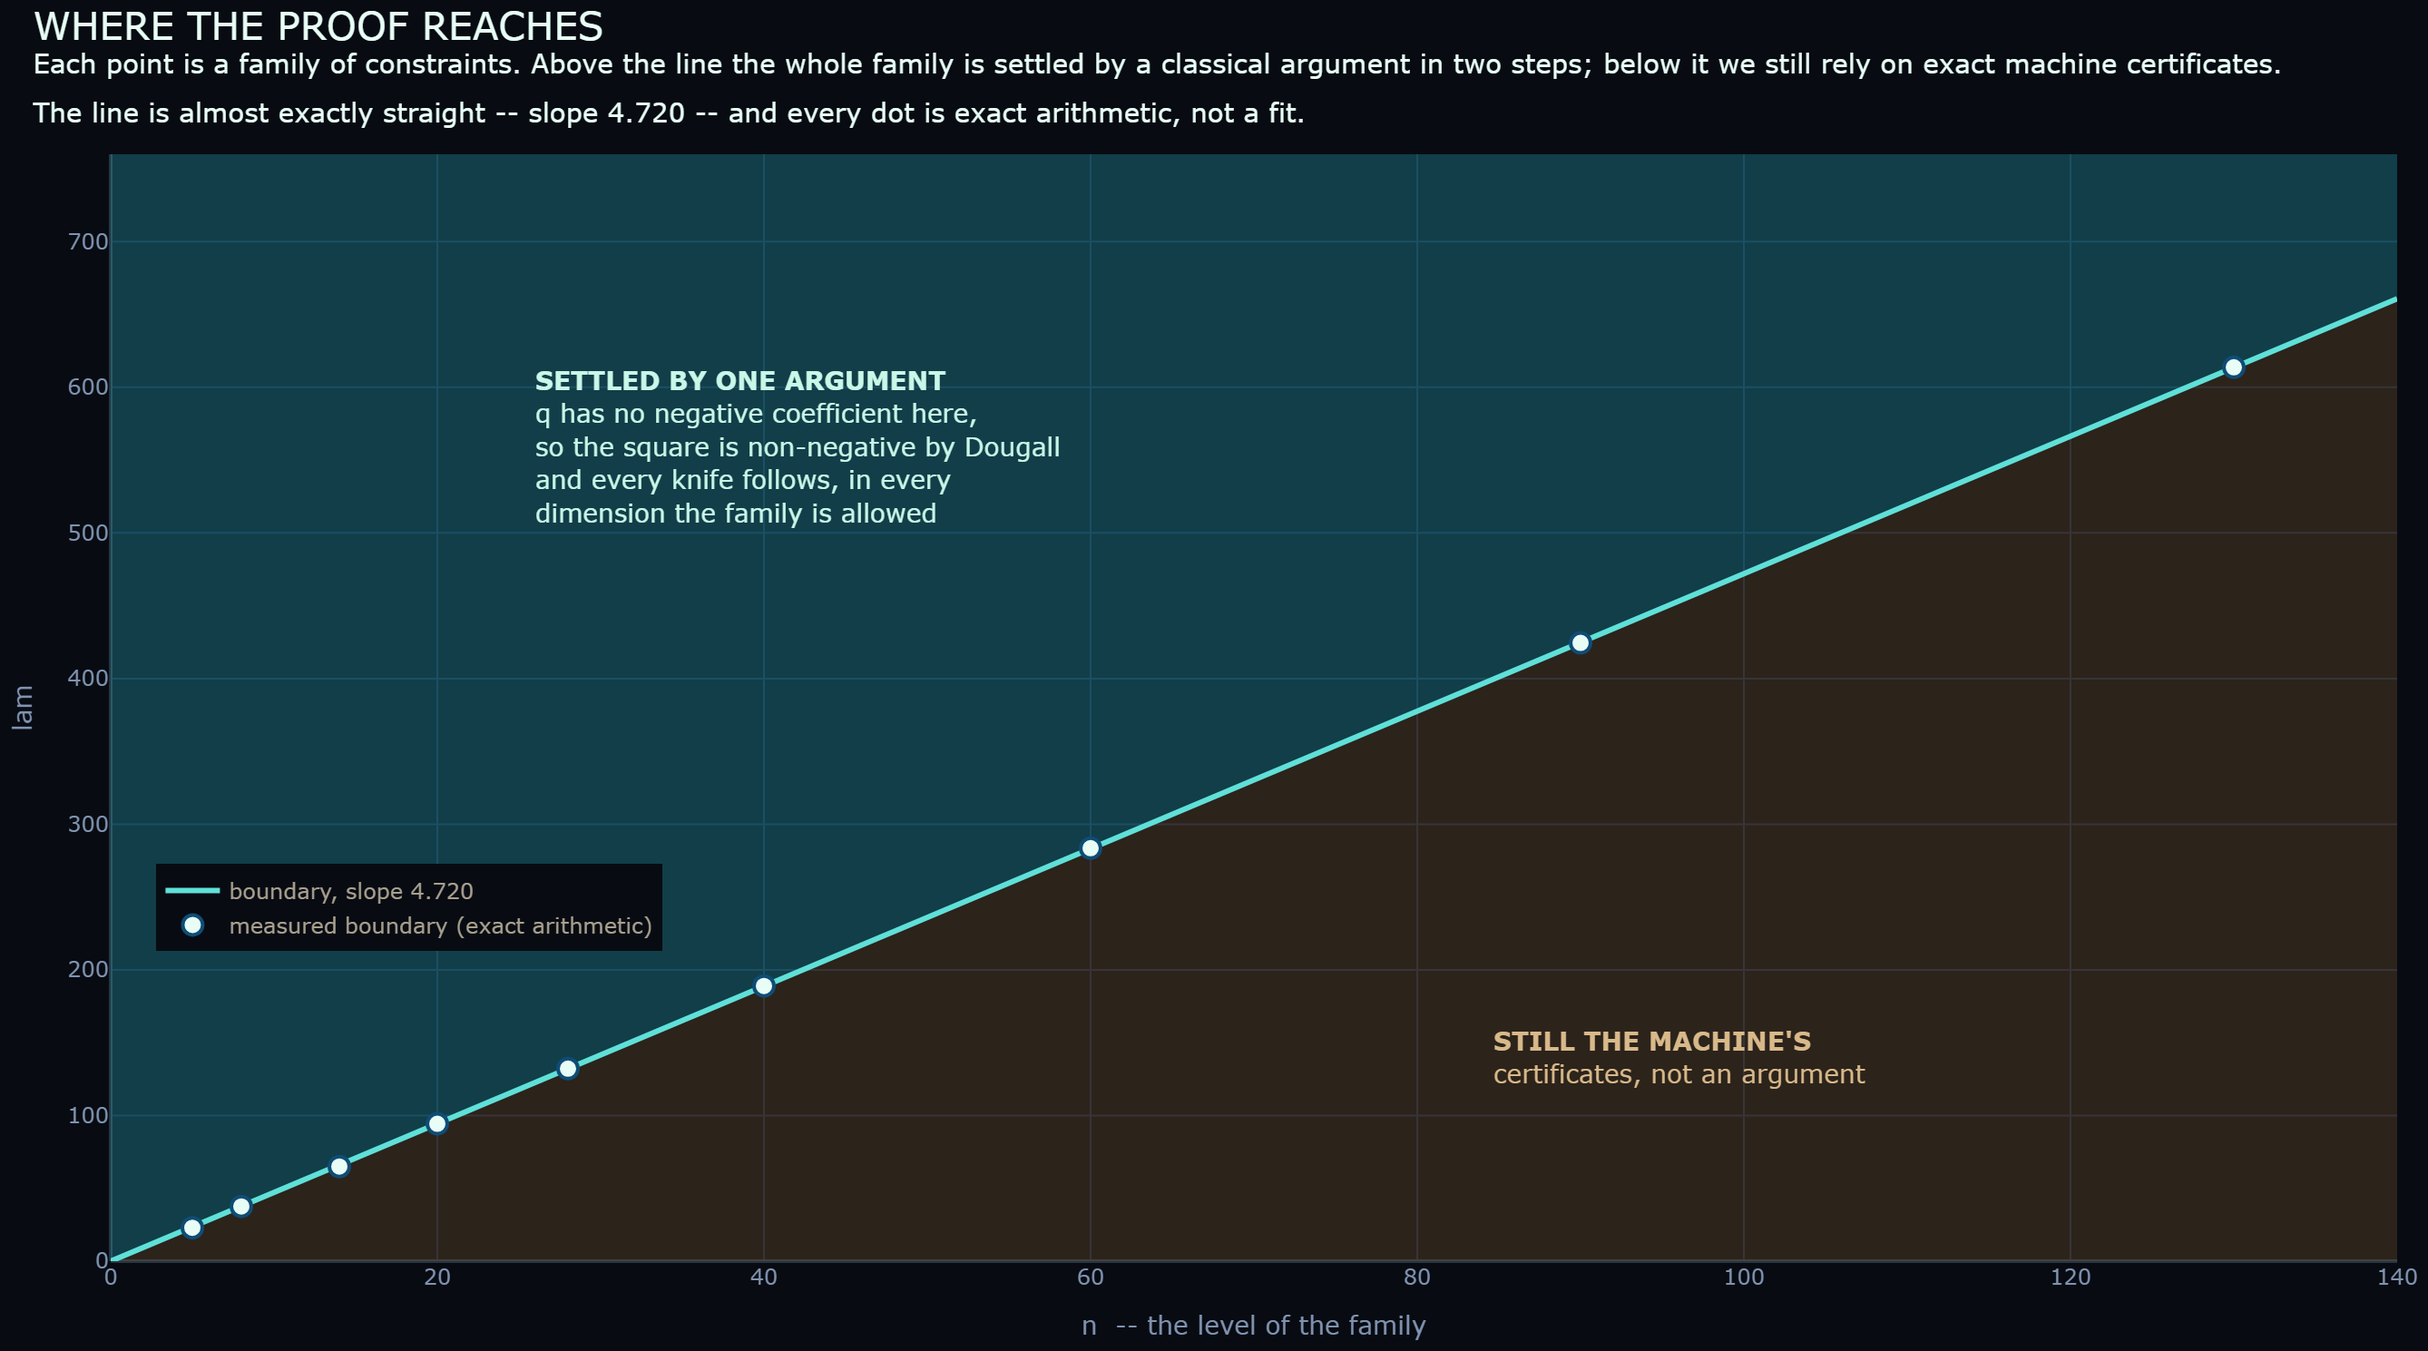
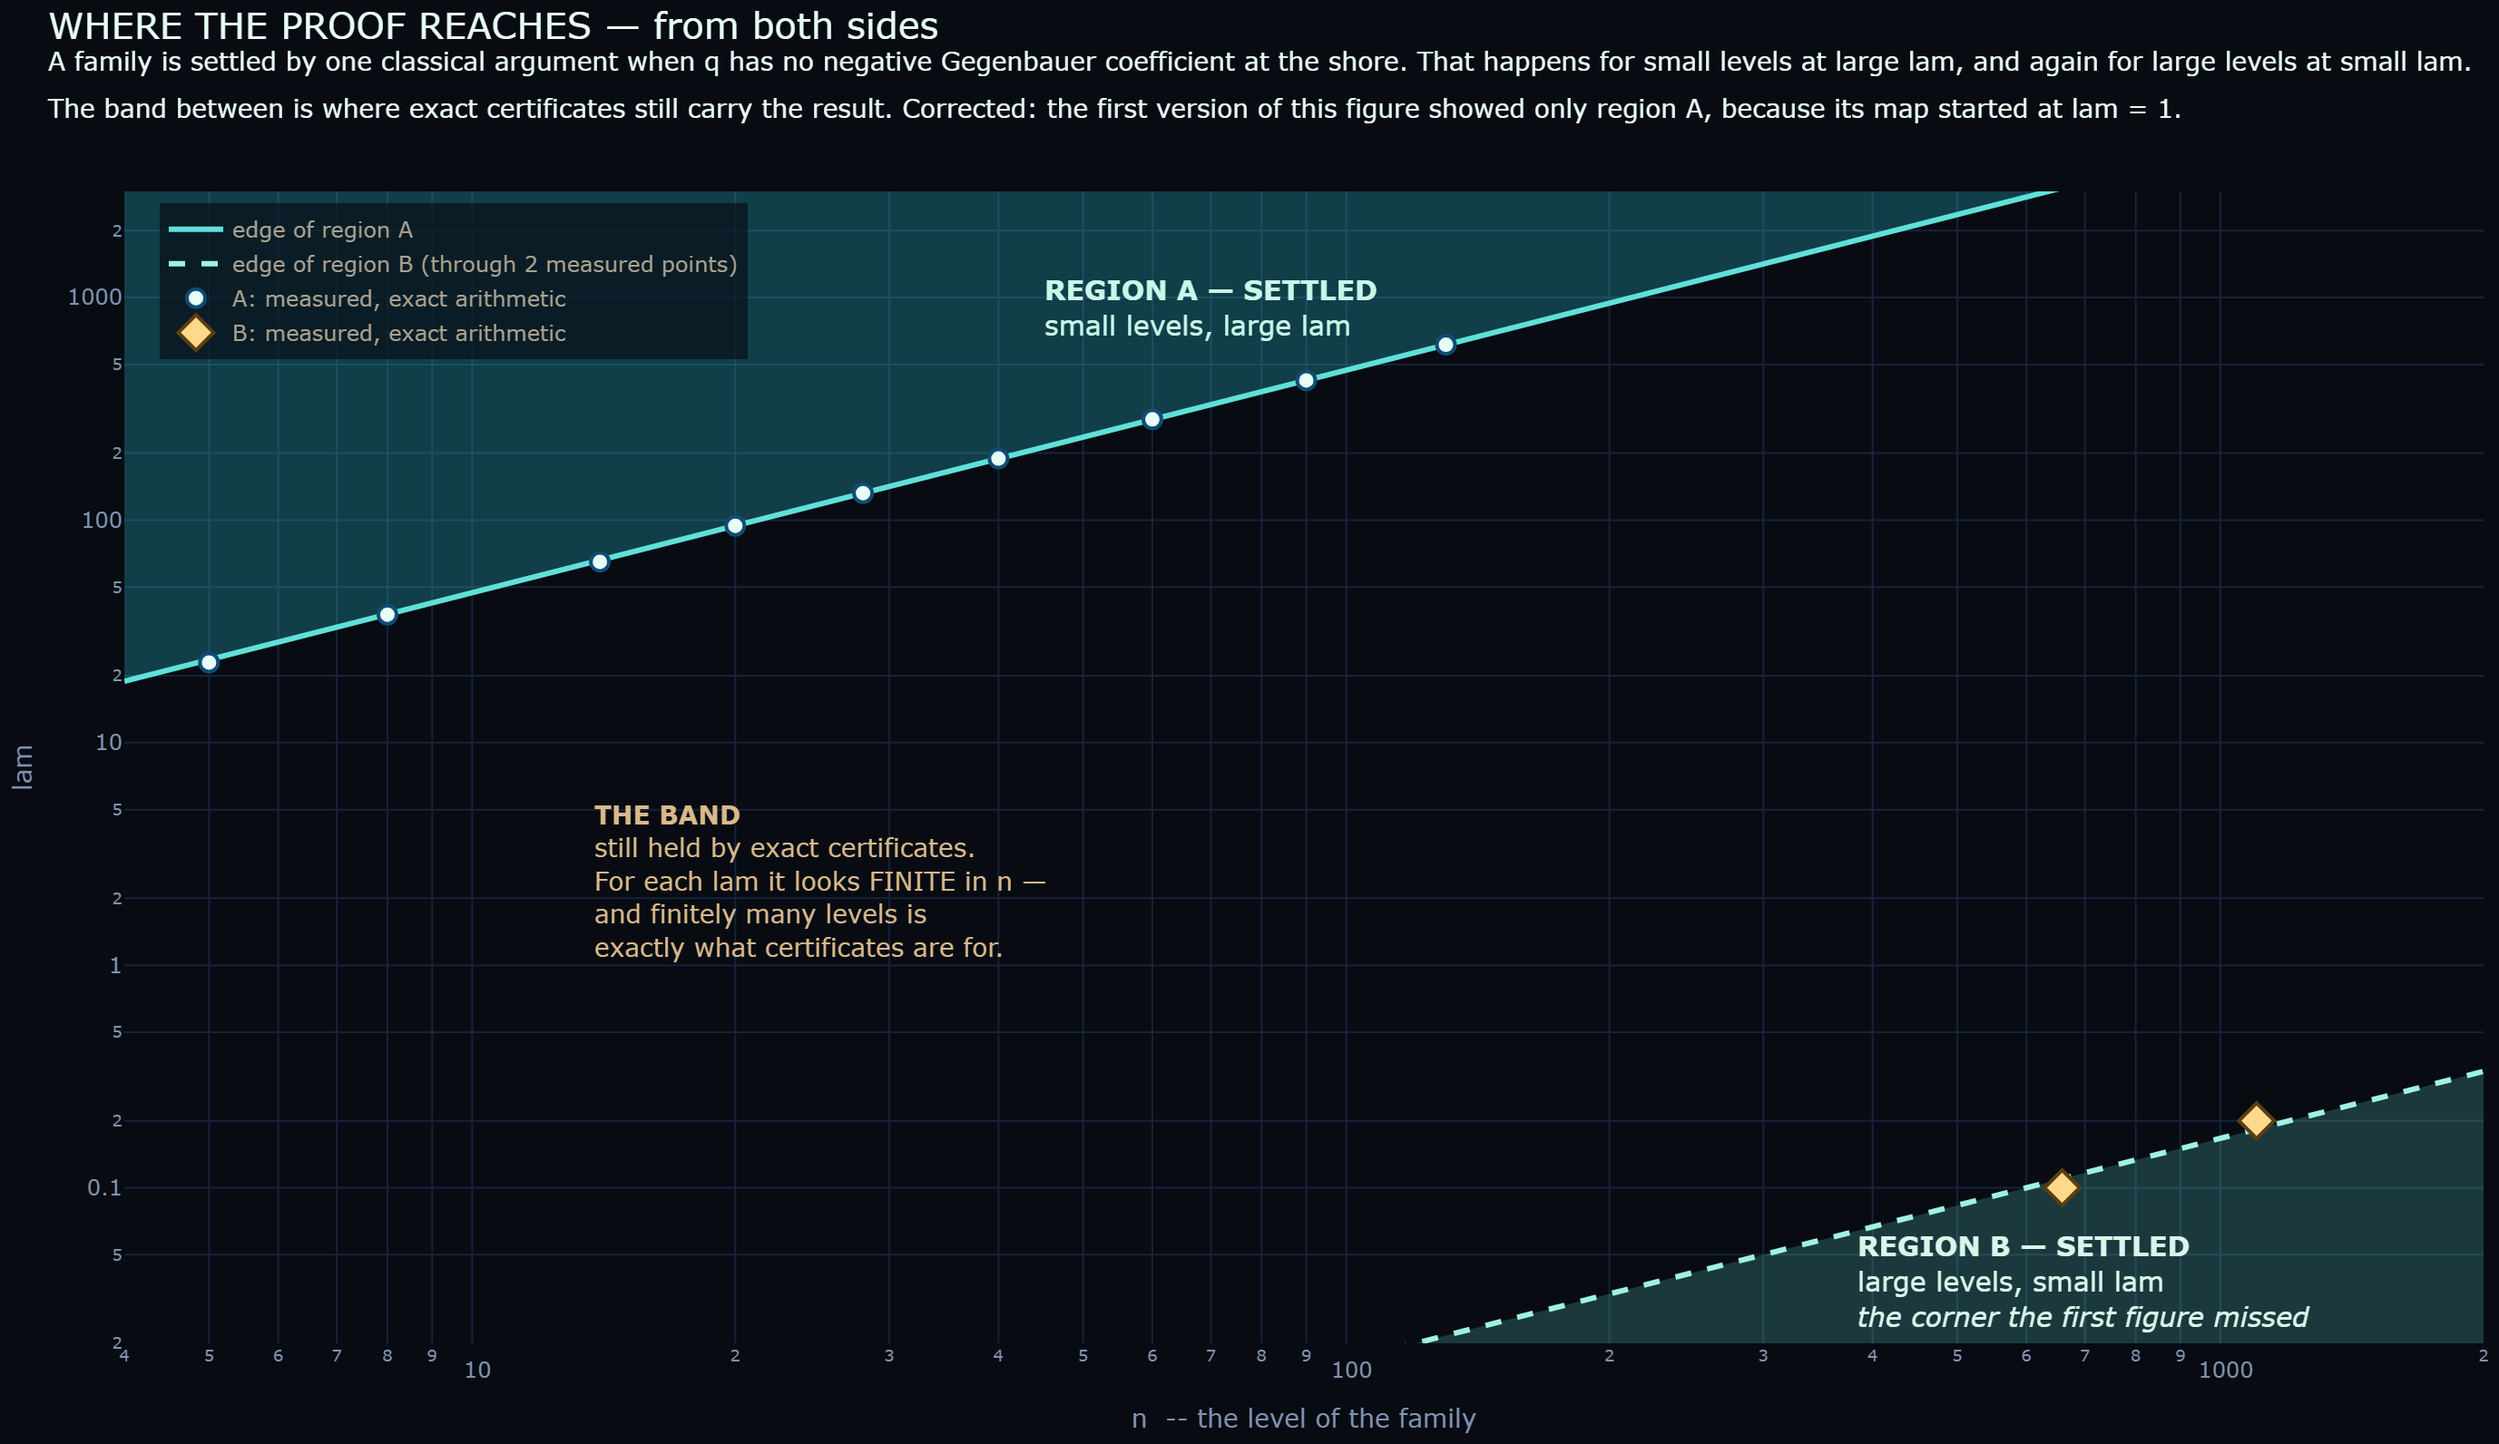
Correct the figure: the proved set reaches from both sides, not one
The version sent earlier showed a half-plane and was incomplete -- it was drawn
from a map whose smallest lam was 1, so it missed region B entirely. The figure
now shows both settled regions on log axes with the band between, marks which
points are measured, and dashes the region-B edge because it interpolates two
points rather than tracing a measured curve. The correction is stated on the
figure itself, since the earlier PNG has already been handed over.

Also closed a cheap avenue: since the descent runs downward, non-negativity at
ANY mu >= gamma_shore would suffice, not only at the shore. Scanned mu upward in
five band cells (n = 20, 40, 100 at lam = 1; n = 20 at lam = 5; n = 60 at
lam = 2): no clean mu exists above the shore in any of them. The clean set in mu
is the interval (0, gamma*] and nothing above it.

And the hostile check on the new claim: positivity does NOT break again above
n*. At lam = 1/10, n = 800, 1000, 1200 all give zero negative coefficients.

diff --git a/live_status.html b/live_status.html
@@ -47,7 +47,7 @@ box-shadow:0 0 8px #0aa3c2}
 .big .bar{height:30px} .big .pct{top:5px;font-size:15px}
 </style></head><body>
 <h1>🔴 ScienceBro — живой статус</h1>
-<div class='t'>Обновлено 13:28:01 18.08.2026 · страница сама обновляется каждые 30 с ·
+<div class='t'>Обновлено 13:52:33 18.08.2026 · страница сама обновляется каждые 30 с ·
 все цифры считаются из реальных файлов результатов, не руками</div>
 
 <div class='card' style='border-color:#f9f871'>
@@ -85,5 +85,5 @@ box-shadow:0 0 8px #0aa3c2}
 
 <h2>Пульс машины <span class='t'>(🟢 живой лог · 🟡 долгий счёт · ⚪ молчит
 или закончил)</span></h2>
-<table><tr><td>⚪ tail_rerun_j6</td><td class='mono'>deep-fixed m&lt;41: OK (212s)</td><td class='t'>3101 мин</td></tr><tr><td>⚪ belowdiag_j6</td><td class='mono'></td><td class='t'>2427 мин</td></tr><tr><td>⚪ farbelow_j6</td><td class='mono'></td><td class='t'>2484 мин</td></tr><tr><td>⚪ z3_retry_j4</td><td class='mono'>RETRY: 24/35 confirmed, 0 alarms, 11 still unknown</td><td class='t'>2668 мин</td></tr><tr><td>⚪ keystone_hunt</td><td class='mono'>NO VIOLATIONS in 109980 checks</td><td class='t'>3045 мин</td></tr></table>
+<table><tr><td>⚪ tail_rerun_j6</td><td class='mono'>deep-fixed m&lt;41: OK (212s)</td><td class='t'>3125 мин</td></tr><tr><td>⚪ belowdiag_j6</td><td class='mono'></td><td class='t'>2451 мин</td></tr><tr><td>⚪ farbelow_j6</td><td class='mono'></td><td class='t'>2508 мин</td></tr><tr><td>⚪ z3_retry_j4</td><td class='mono'>RETRY: 24/35 confirmed, 0 alarms, 11 still unknown</td><td class='t'>2693 мин</td></tr><tr><td>⚪ keystone_hunt</td><td class='mono'>NO VIOLATIONS in 109980 checks</td><td class='t'>3070 мин</td></tr></table>
 </body></html>

diff --git a/article/visuals/where_the_proof_reaches.py b/article/visuals/where_the_proof_reaches.py
@@ -1,18 +1,24 @@
-"""WHERE THE PROOF REACHES -- the plane of families, split by one classical argument.
+"""WHERE THE PROOF REACHES -- and it reaches from BOTH sides.
 
-Every point is a family: its level n across, its lam up the side. Above the
-boundary the whole family is settled by a two-step classical argument and no
-machine is needed; below it, the machine is still what we have.
+Corrected figure. The first version showed a half-plane: settled above a line,
+machine-held below. That was incomplete -- it was drawn from a map whose smallest
+lam was 1, and the interesting corner lies below that.
 
-The boundary is measured, not fitted: for each n it is the smallest lam at which
-the polynomial q -- the one whose square is our object, and whose roots are
-equally spaced -- has no negative Gegenbauer coefficient at the shore. Above that
-point Dougall's non-negative linearization carries the square, and the dimension
-descent carries it down to every dimension the family is allowed.
+The classical argument settles a family when the polynomial q -- the one whose
+square is our object, and whose roots are equally spaced -- has no negative
+Gegenbauer coefficient at the shore. That happens in TWO separate regions:
 
-Nothing here is smoothed. The dots are the bisected boundary values from
-lab/gegenbauer_flint.py; the straight line is drawn only to show how nearly
-straight they are.
+  A  small levels with large lam:  lam >= lam*(n), with lam*/n measured at
+     4.7165..4.7260 for n = 20..130
+  B  large levels with small lam:  n >= n*(lam), with n*(1/10) bisected into
+     (656, 662] and n*(1/5) between 900 and 1300
+
+Between them lies a band where the result is still carried by exact certificates
+rather than by an argument. For each lam that band looks FINITE in n, which is
+the whole point: finitely many levels is exactly what certificates are for.
+
+Every marker is exact rational arithmetic. The edge of region B is dashed because
+it is an interpolation through two measured points, not a measured curve.
 """
 
 import json
@@ -27,20 +33,25 @@ from PIL import Image, ImageChops
 RES = Path(__file__).resolve().parents[2] / "projects" / "qg-bootstrap" / "results"
 data = json.loads((RES / "gegenbauer_term_by_term.json").read_text(encoding="utf-8"))
 bd = data["proved_region"]["boundary"]
-ns = np.array([b["n"] for b in bd], dtype=float)
-ls = np.array([float(Fraction(b["lam_star"])) for b in bd])
-slope = float(np.sum(ns * ls) / np.sum(ns * ns))
+nsA = np.array([b["n"] for b in bd], dtype=float)
+lsA = np.array([float(Fraction(b["lam_star"])) for b in bd])
+slope = float(np.sum(nsA * lsA) / np.sum(nsA * nsA))
 
-nn = np.linspace(0, 140, 400)
-line = slope * nn
-top = 760.0
+# region B, measured this session -- see results/BOUNDARY_PUSH_2026-08-18.md
+nsB = np.array([659.0, 1100.0])
+lsB = np.array([0.10, 0.20])
+slopeB = float(np.mean(lsB / nsB))
+
+nn = np.logspace(np.log10(4), np.log10(2000), 400)
+lineA = slope * nn
+lineB = slopeB * nn
+TOP, BOT = 3000.0, 0.02
 
 fig = go.Figure()
-# the settled region
 fig.add_trace(
     go.Scatter(
         x=np.concatenate([nn, nn[::-1]]),
-        y=np.concatenate([line, np.full_like(nn, top)]),
+        y=np.concatenate([lineA, np.full_like(nn, TOP)]),
         fill="toself",
         fillcolor="rgba(40,182,200,0.30)",
         line=dict(color="rgba(0,0,0,0)"),
@@ -48,13 +59,12 @@ fig.add_trace(
         showlegend=False,
     )
 )
-# the region still held by the machine
 fig.add_trace(
     go.Scatter(
         x=np.concatenate([nn, nn[::-1]]),
-        y=np.concatenate([line, np.zeros_like(nn)]),
+        y=np.concatenate([np.full_like(nn, BOT), lineB[::-1]]),
         fill="toself",
-        fillcolor="rgba(150,105,55,0.26)",
+        fillcolor="rgba(95,224,216,0.22)",
         line=dict(color="rgba(0,0,0,0)"),
         hoverinfo="skip",
         showlegend=False,
@@ -62,62 +72,100 @@ fig.add_trace(
 )
 fig.add_trace(
     go.Scatter(
-        x=nn,
-        y=line,
-        mode="lines",
-        line=dict(color="#5fe0d8", width=3),
-        name=f"boundary, slope {slope:.3f}",
+        x=nn, y=lineA, mode="lines", line=dict(color="#5fe0d8", width=3), name="edge of region A"
     )
 )
 fig.add_trace(
     go.Scatter(
-        x=ns,
-        y=ls,
-        mode="markers",
-        marker=dict(color="#e8fdf6", size=11, line=dict(color="#0f4c75", width=2)),
-        name="measured boundary (exact arithmetic)",
+        x=nn,
+        y=lineB,
+        mode="lines",
+        line=dict(color="#9ff2e0", width=3, dash="dash"),
+        name="edge of region B (through 2 measured points)",
     )
 )
+fig.add_trace(
+    go.Scatter(
+        x=nsA,
+        y=lsA,
+        mode="markers",
+        marker=dict(color="#e8fdf6", size=10, line=dict(color="#0f4c75", width=2)),
+        name="A: measured, exact arithmetic",
+    )
+)
+fig.add_trace(
+    go.Scatter(
+        x=nsB,
+        y=lsB,
+        mode="markers",
+        marker=dict(
+            color="#ffd98a", size=15, symbol="diamond", line=dict(color="#5a3d12", width=2)
+        ),
+        name="B: measured, exact arithmetic",
+    )
+)
+
 fig.add_annotation(
-    x=42,
-    y=560,
-    text="<b>SETTLED BY ONE ARGUMENT</b><br>q has no negative coefficient here,<br>"
-    "so the square is non-negative by Dougall<br>and every knife follows, in every<br>"
-    "dimension the family is allowed",
+    x=np.log10(70),
+    y=np.log10(900),
+    text="<b>REGION A — SETTLED</b><br>small levels, large lam",
     showarrow=False,
-    font=dict(color="#c9f7e8", size=14),
+    font=dict(color="#c9f7e8", size=15),
     align="left",
 )
 fig.add_annotation(
-    x=96,
-    y=140,
-    text="<b>STILL THE MACHINE'S</b><br>certificates, not an argument",
+    x=np.log10(700),
+    y=np.log10(0.038),
+    text="<b>REGION B — SETTLED</b><br>large levels, small lam<br>"
+    "<i>the corner the first figure missed</i>",
+    showarrow=False,
+    font=dict(color="#d9f7ea", size=15),
+    align="left",
+)
+fig.add_annotation(
+    x=np.log10(25),
+    y=np.log10(2.4),
+    text="<b>THE BAND</b><br>still held by exact certificates.<br>"
+    "For each lam it looks FINITE in n —<br>and finitely many levels is<br>"
+    "exactly what certificates are for.",
     showarrow=False,
     font=dict(color="#d8b98a", size=14),
     align="left",
 )
+
 fig.update_layout(
     template="plotly_dark",
     paper_bgcolor="#080b12",
     plot_bgcolor="#080b12",
     title=dict(
-        text="WHERE THE PROOF REACHES"
-        "<br><sup>Each point is a family of constraints. Above the line the whole "
-        "family is settled by a classical argument in two steps; below it we still "
-        "rely on exact machine certificates.<br>The line is almost exactly straight "
-        f"-- slope {slope:.3f} -- and every dot is exact arithmetic, not a fit.</sup>",
-        font=dict(color="#e8fdf6", size=21),
+        text="WHERE THE PROOF REACHES — from both sides"
+        "<br><sup>A family is settled by one classical argument when q has no negative "
+        "Gegenbauer coefficient at the shore. That happens for small levels at large lam, "
+        "and again for large levels at small lam.<br>The band between is where exact "
+        "certificates still carry the result. Corrected: the first version of this figure "
+        "showed only region A, because its map started at lam = 1.</sup>",
+        font=dict(color="#e8fdf6", size=20),
         x=0.02,
-        y=0.94,
+        y=0.95,
     ),
     xaxis=dict(
-        title="n  -- the level of the family", gridcolor="#16233a", color="#7f93b0", range=[0, 140]
+        title="n  -- the level of the family",
+        type="log",
+        gridcolor="#16233a",
+        color="#7f93b0",
+        range=[np.log10(4), np.log10(2000)],
     ),
-    yaxis=dict(title="lam", gridcolor="#16233a", color="#7f93b0", range=[0, top]),
-    legend=dict(x=0.02, y=0.28, font=dict(color="#a8a08e", size=12)),
-    margin=dict(l=70, r=30, t=110, b=60),
-    width=1360,
-    height=780,
+    yaxis=dict(
+        title="lam",
+        type="log",
+        gridcolor="#16233a",
+        color="#7f93b0",
+        range=[np.log10(BOT), np.log10(TOP)],
+    ),
+    legend=dict(x=0.015, y=0.99, font=dict(color="#a8a08e", size=12), bgcolor="rgba(8,11,18,0.65)"),
+    margin=dict(l=70, r=30, t=125, b=60),
+    width=1400,
+    height=820,
 )
 
 out = Path(__file__).resolve().parent / "where-the-proof-reaches.png"
